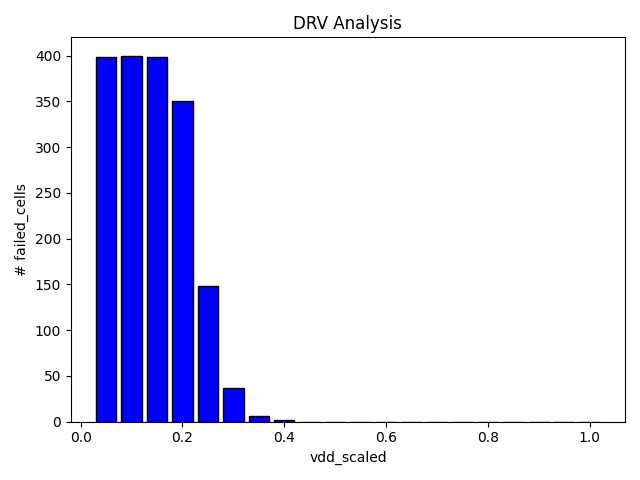
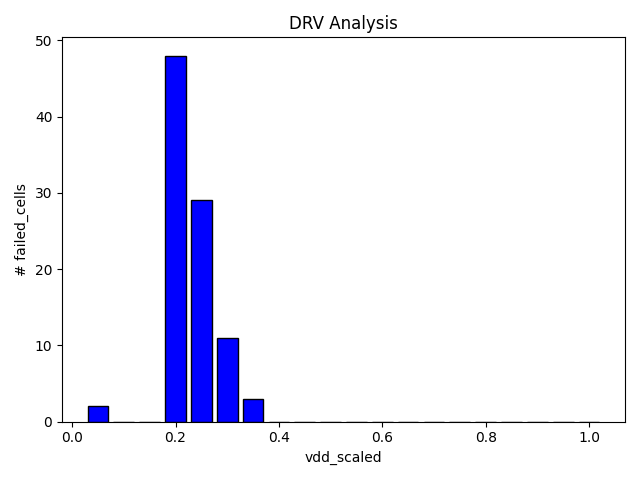
drv_analysis modificato

diff --git a/python/sram-analysis/drv_analysis.py b/python/sram-analysis/drv_analysis.py
@@ -10,9 +10,9 @@ def drv_analysis():
     snm_hold_values = get_values_from_dir(os.path.join(data, 'out', 'hold', 'snm', 'vdd_scaling'))
 
     '''
-    Minimum voltage threshold such that the cells begin to fail beyond it.
+    Minimum snm threshold such that the cells begin to fail beyond it.
     '''
-    threshold = 60
+    range_threshold = [58, 62]
 
     '''
     Counter for each vdd scaling. -> counter array
@@ -22,7 +22,7 @@ def drv_analysis():
     for row in snm_hold_values:
         count = 0
         for val in row:
-            if val < threshold:
+            if range_threshold[0] < val < range_threshold[1]:
                 count = count + 1
         counter.append(count)
 
